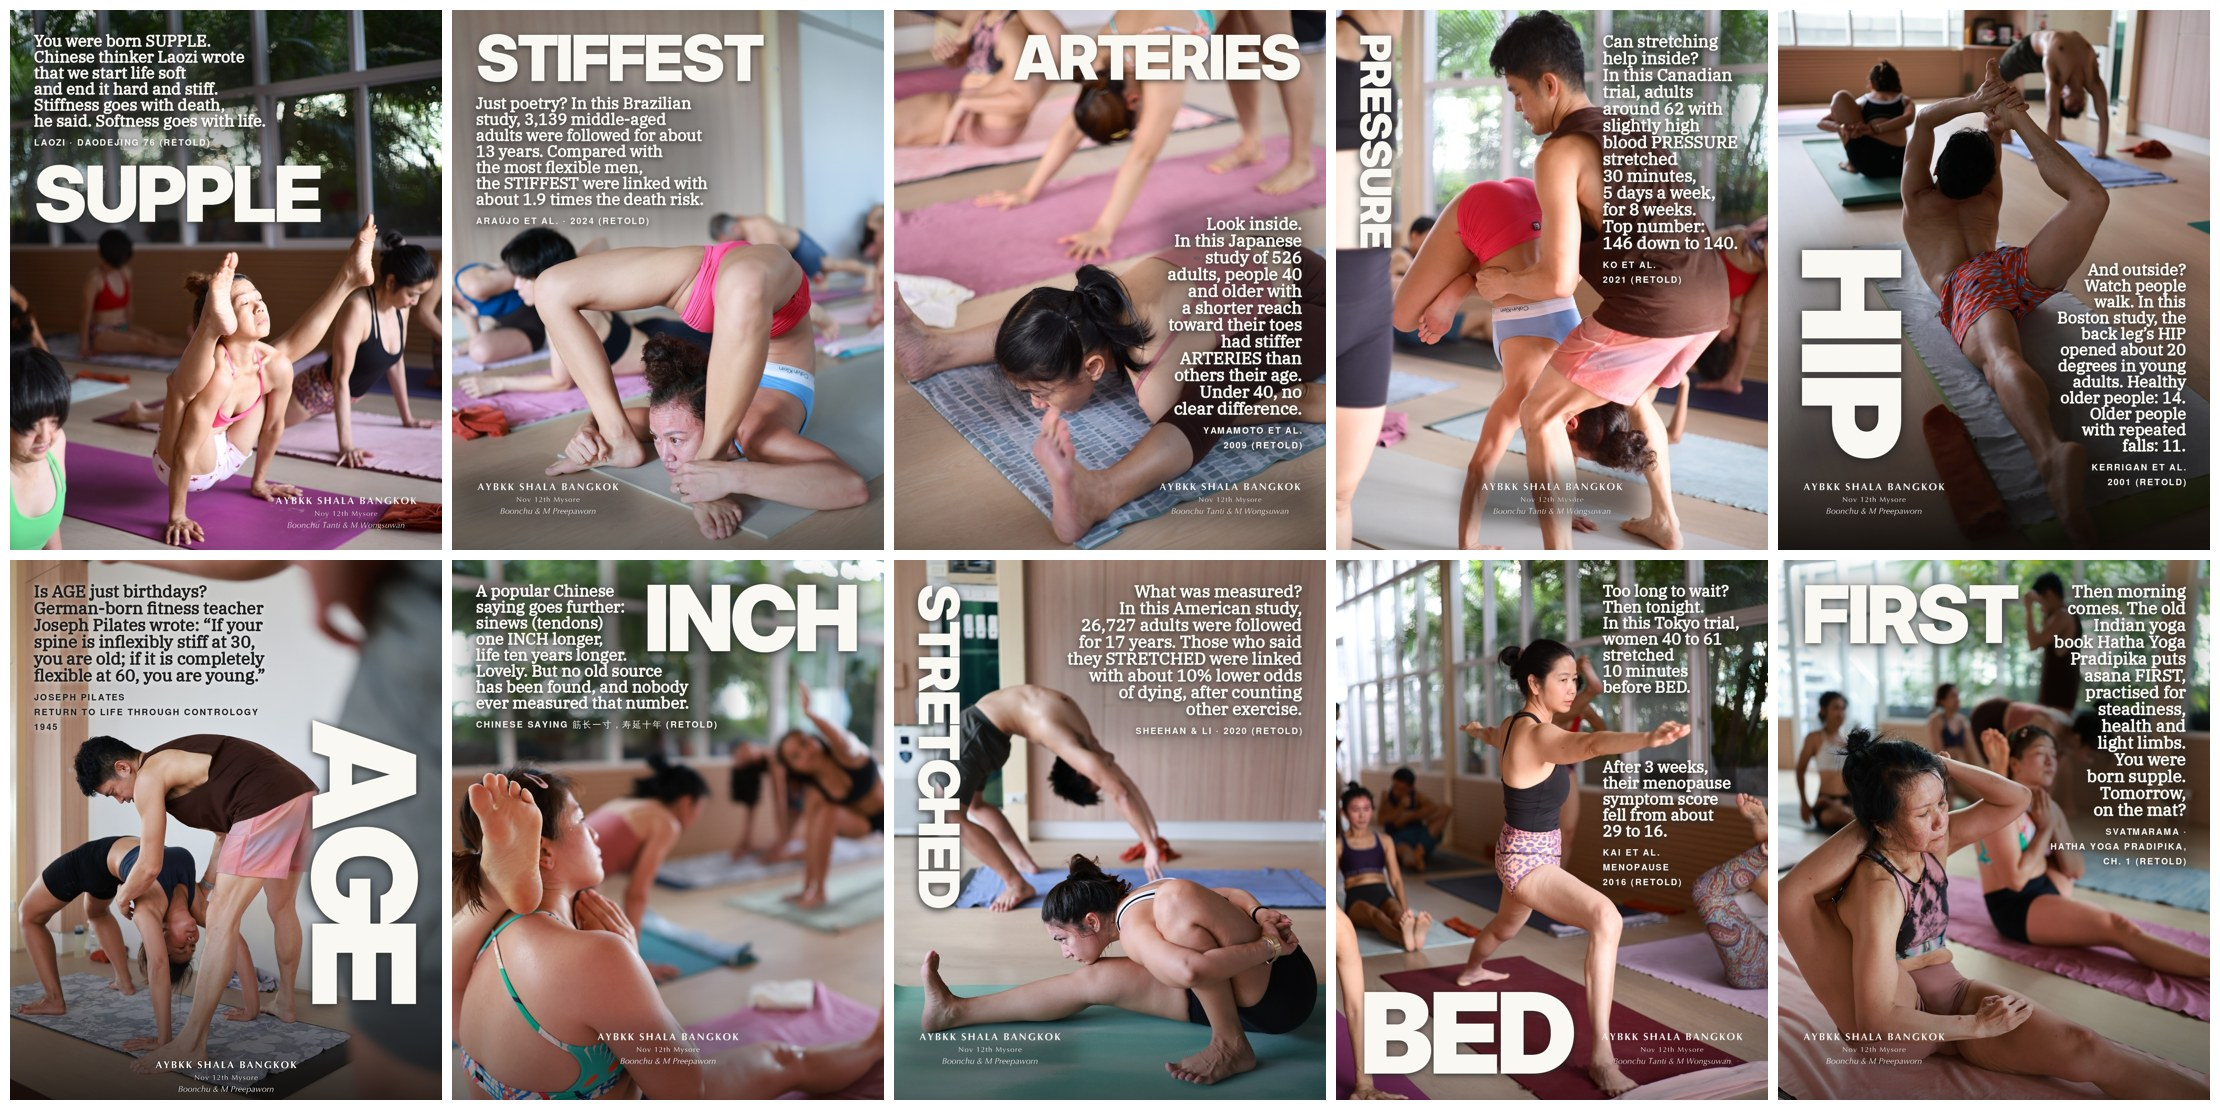
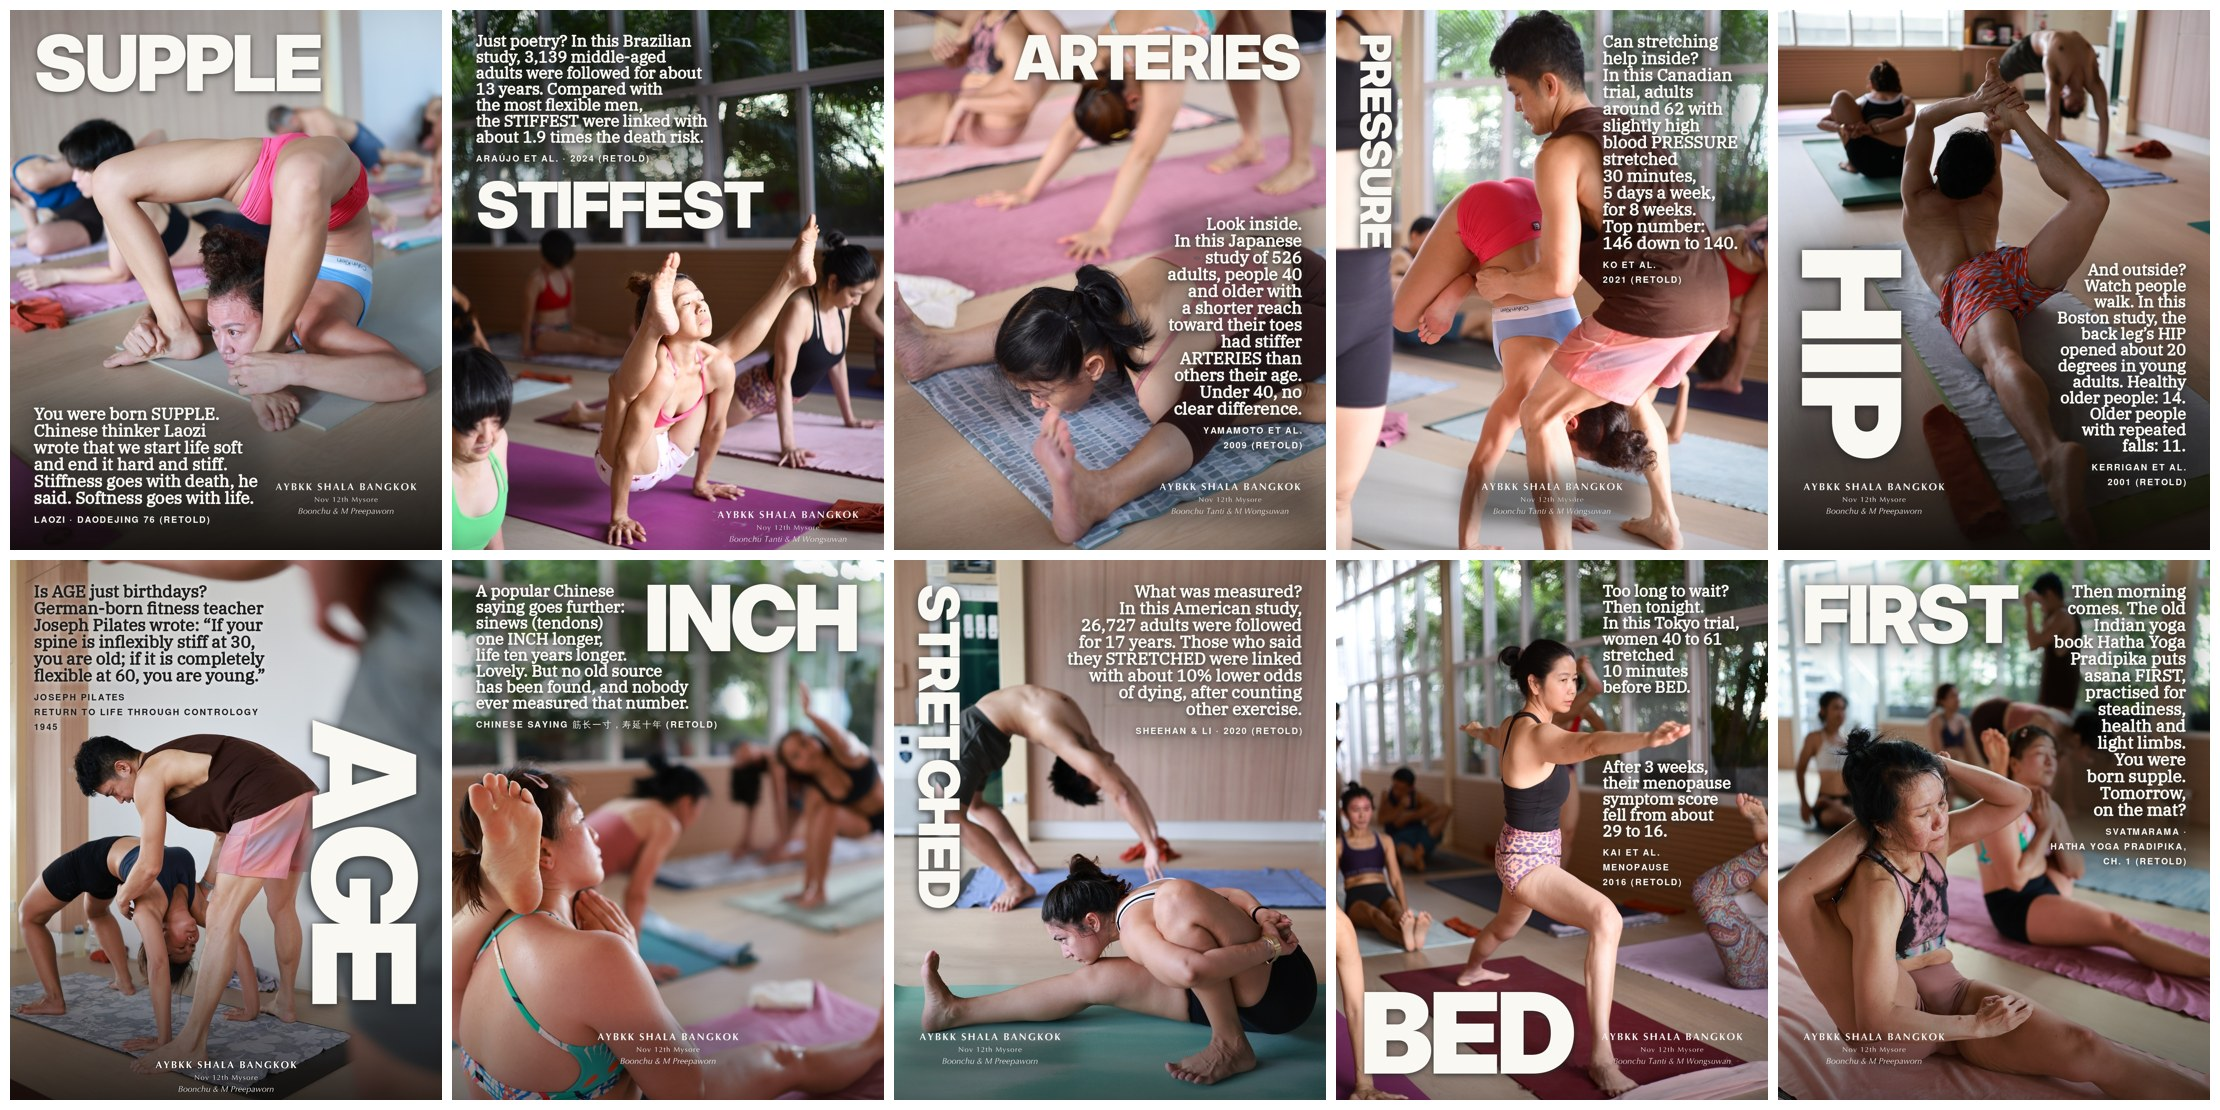
plato chat: 2026-11-13 flex set A PUBLISHED, set B slides 1-2 swapped
Claude-Session: https://claude.ai/code/session_01EpfSiAFErEs2e4MYfzK1F9

Changed region(s): [[0.0, 0.0, 0.4041, 0.5207]]

diff --git a/bots/notebook/plato.md b/bots/notebook/plato.md
@@ -326,6 +326,7 @@ Guardrails: never use the "back injury" story from Boonchu Persuasion Framework 
 - 2026-11-03 (his own words, for a talking Reel): 'I used to think 99% of men loves challenge. After first year of yoga, it appears that girls are the bad ass. Some are so weak but they resist. Some has lots of fear but keep doing. Most of them just more resilience. I don't know what to say, bro.' [USED: talking Reel draft 3 Nov]
 
 ## Stories used
+- 2026-11-13 | FLEXIBILITY CAROUSEL SET A 'Enough, Not Splits' PUBLISHED 13 Nov 15:28 BKK on Boonchu's 'Set A go' (Postiz cmwepsxd500mfn107l5i0ptca, 10 attachments md5-checked) | research: 48 ideas found, 47 verified, 20 kept (bots/media/2026-11-12-flex/README.md) | words SPLITS, SHOES, TURN, BENDS, DECADE, LONGER, ONCE, MINUTE, STOPPED, KEEP on photos 044,097,065,164,075,162,002,055,072,067 | Boonchu moved photo 9 (044) to the cover and the old cover (145) to set B; then swapped set B slides 1 and 2 photos (SUPPLE on 159, STIFFEST on 145) | caption = his format, question 'Tying your shoes or turning to reverse the car: which feels stiffer for you?' | credits shortened to author · year | set B 'Born Supple' ready in bots/media/2026-11-12-flex/B/, waiting for go; open: B9 menopause (swap to sleep study?), B10 Hatha Yoga Pradipika overlap
 - 2026-11-12 | BRAIN CAROUSEL SET B 'No Head Works Alone' PUBLISHED 12 Nov 13:09 BKK on Boonchu's 'set b go' (Postiz cmwd5dqog00qtmr075l046wzd, 10 attachments md5-checked) | words MOVE, NEED, TOGETHER, THINKING, GROWTH, BUILD, BLESSING, WALK, STRONGER, BODY on photos 035,126,143,114,065,146,003,048,138,112 | caption = his format (1 line per slide + question 'When your head gets stuck, what do you do first: think more, or move?'), no promo line (promo ended 11 Nov) | slide 7 credit cut to 'GALEN (retold)' to keep it off students; slides 3, 9, 10 big word 540 (720 covered heads/hands), flagged to him before go | files bots/media/2026-11-11-brain/B/
 - 2026-11-11 | BRAIN CAROUSEL SET A 'First Wobble, First Asana' PUBLISHED 11 Nov 20:09 BKK on Boonchu's 'Go' (Postiz cmwc4yq6x03f0rd075p3m5390) | 10 slides on 'best 20 wk3Nov carousel' photos (one per part of class, order mixed), big word alone, text on empty space | caption = his format: one line per slide 1-10, then his question 'How does your body react when you are thinking too much?' (his rule: no '10 voices', not AI-sounding) | set B 'No Head Works Alone' texts ready (bots/media/2026-11-10-brain-quotes, scratchpad wk8/txt/final_sets.json), photos = the other 10 (incl. WB-fixed 138, 143), not laid out yet
 - 2026-11-11 | RAMAYANA RUN plan (chat) | 13 agents | Asanas read from his PDF (Philippa Asher sheets, Adv A p.15-16, Adv B p.17-18; 31 + 30 names in posts/2026-11-11-plato-ramayana-run/asanas_ab.md) | Movie: 'Ramayana: Rise of a Legend' (Thai: รามายณะ ปฐมบทแห่งตำนาน), in Thai cinemas since 5 Nov 2026, Part 1 ends just after the abduction; safe spoken line only 'There is a new Ramayana movie in the cinema here in Bangkok now.'; no actor names, no review, never 'like in the movie' | Map v2: 1 Vishvamitra (Vishvamitrasana, Bala 30, the silent teacher, five quiet days) 2 Parashurama (Akarna Dhanurasana, Bala 74-76) 3 Kausalya (Trivikramasana, Ayodhya 25) 4 Sita and the bark dress (Vrschikasana, Ayodhya 26-37) 5 Dasharatha 'Just one more night' (Raja Kapotasana, Ayodhya 12/34) 6 Bharata (Sayanasana) 7 Lakshmana and the animals who pointed south (Dighasana, shape only) 8 Jatayu (Kasyapasana, Aranya 14/50-51/68) | spares Janaka, Trishanku, Vasishtha | Ep. 1 script written + fixed, not filmed, no number | File posts/2026-11-11-plato-ramayana-run/
